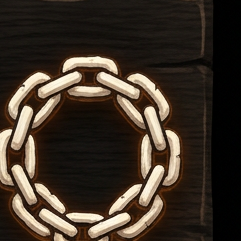
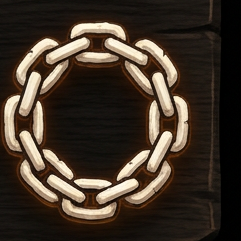
feat: economy line chart, de-server reliquary, UI fixes
- Economy panel now charts total resources held over time (SVG line +
  area, sampled every 2s in the sim, last ~3min) with the current total.
- Reliquary Yard reworked away from the server look: dark timber + bone
  uprights, an ossuary backboard with hung bone relics and a faint ember
  soul-lantern; just one subtle dark panel nods to the machine.
- Re-sliced the off-center economy rail glyph to center on the chain.
- Thickened the top ledger branch-bar (20->30px, full opacity).
- Removed all player-facing 'bound, never born' / 'never breed' phrasing.

diff --git a/game/index.html b/game/index.html
@@ -46,9 +46,9 @@
   #inspect .hd h3{font-size:18px;letter-spacing:1px}
   .twig,.modal{position:relative}
   #ledger{position:fixed}
-  #ledger::after{content:"";position:absolute;left:0;right:0;bottom:-14px;height:20px;
-    background:url('assets/ui/stick-bar.png') no-repeat center/100% 100%;opacity:.92;pointer-events:none;
-    filter:drop-shadow(0 2px 3px #000a)}
+  #ledger::after{content:"";position:absolute;left:0;right:0;bottom:-20px;height:30px;
+    background:url('assets/ui/stick-bar.png') no-repeat center/100% 100%;opacity:1;pointer-events:none;
+    filter:drop-shadow(0 2px 4px #000c)}
   #boot .wordmark{font-family:'Pirata One','Iowan Old Style',serif;font-weight:normal;
     font-size:clamp(36px,7vw,62px);letter-spacing:4px;line-height:1.05;margin:8px 0 2px;
     color:#c4b89e;opacity:.9;text-shadow:0 1px 1px #000a;text-transform:none}
@@ -1031,8 +1031,19 @@ function showSupplyChain(){ SND.resume();
     <p style="color:var(--ink-dim);font-size:12px;margin:2px 0 8px">Build and staff these in order. Each dot reads <span style="color:#9e3b2c">red</span> (not built), <span style="color:#c08a3a">amber</span> (built, needs husks), or <span style="color:#6f9a55">green</span> (running). Tap a step to jump to it.</p>
     <div class="chain">${CHAIN_STEPS.map(step).join('')}</div>
     <div style="margin-top:10px;padding:9px 11px;border:1px dashed var(--line);border-radius:6px;font-size:11.5px;color:var(--ink-dim);line-height:1.6">
-      ${ricon('compute',15)} <b style="color:var(--ink-bright)">Compute</b> is the quota the engine demands each tithe. &nbsp;${ricon('dead',15)}+${ricon('compute',15)} also bind new husks at the Binding Pyre — bound, never born.</div>
+      ${ricon('compute',15)} <b style="color:var(--ink-bright)">Compute</b> is the quota the engine demands each tithe. &nbsp;${ricon('dead',15)}+${ricon('compute',15)} also bind new husks at the Binding Pyre.</div>
     <p style="margin-top:10px"><span class="btn" onclick="hideOverlay()">Close</span> <span class="btn" onclick="showEconomy()">Live rates &amp; deficits</span></p>`); }
+// a little SVG line chart of total resources held over the last few minutes
+function resChartSVG(){ const h=G.resHist||[]; const W=520,H=86,pad=7;
+  if(h.length<2) return `<div style="color:var(--ink-dim);font-size:11px;padding:14px 6px;text-align:center">The line will chart here as the foundry runs…</div>`;
+  const mx=Math.max(1,...h);
+  const xy=h.map((v,i)=>{ const x=pad+(i/(h.length-1))*(W-2*pad); const y=H-pad-(v/mx)*(H-2*pad); return x.toFixed(1)+","+y.toFixed(1); });
+  const line=xy.join(' '), area=`${pad},${H-pad} ${line} ${(W-pad).toFixed(1)},${H-pad}`;
+  return `<svg viewBox="0 0 ${W} ${H}" width="100%" height="${H}" preserveAspectRatio="none" style="display:block">
+    <line x1="${pad}" y1="${H-pad}" x2="${W-pad}" y2="${H-pad}" stroke="#2b2d35" stroke-width="1"/>
+    <polygon points="${area}" fill="#e8a23a1e"/>
+    <polyline points="${line}" fill="none" stroke="#e8a23a" stroke-width="2" stroke-linejoin="round" stroke-linecap="round"/>
+  </svg>`; }
 function showEconomy(){ SND.resume();
   const rate={}; RES_ORDER.forEach(r=>rate[r]=0); let gatherWorkers=0;
   for(const b of buildings){
@@ -1053,7 +1064,14 @@ function showEconomy(){ SND.resume();
      <div style="flex:1;min-width:236px"><div style="font-size:10px;letter-spacing:1.5px;color:var(--ember-soft);text-transform:uppercase;margin-bottom:4px">The line</div>${Object.keys(kinds).length?Object.keys(kinds).map(bldRow).join(''):'<div style="color:var(--ink-dim);font-size:12px">No gather/refine buildings staffed yet.</div>'}</div>
     </div>
     <div style="color:var(--ink-dim);font-size:11px;margin-top:10px">Green is surplus, red is a deficit. A red line upstream starves everything below it — add gatherers or another refiner there.</div>
-    <p style="margin-top:8px"><span class="btn" onclick="hideOverlay()">Close</span></p>`); }
+    <div style="margin-top:12px">
+      <div style="display:flex;justify-content:space-between;align-items:baseline">
+        <div style="font-size:10px;letter-spacing:1.5px;color:var(--ember-soft);text-transform:uppercase">Total resources held</div>
+        <div style="font-size:13px;color:var(--ink-bright);font-variant-numeric:tabular-nums">${Math.round(RES_ORDER.reduce((a,r)=>a+(G.stock[r]||0),0))}</div>
+      </div>
+      <div style="border:1px solid var(--line);border-radius:6px;background:#0c0d11;padding:4px;margin-top:5px">${resChartSVG()}</div>
+    </div>
+    <p style="margin-top:10px"><span class="btn" onclick="hideOverlay()">Close</span> <span class="btn" onclick="showSupplyChain()">The Line (blueprint)</span></p>`); }
 function buildRail(){
   $('rail').innerHTML='';
   const mk=(gly,on,fn,tt)=>{ const b=document.createElement('div'); b.className='rbtn'+(on?' on':''); b.title=tt||''; b.onclick=fn;
@@ -1125,7 +1143,7 @@ function refreshInspect(){
     if(d.kind==="bind"){ const pop=villagers.filter(v=>!v.dead).length;
       body+=`<div class="row"><span>Husks bound</span><b>${pop} / ${G.popCap||6}</b></div>
       <div style="margin:7px 0"><span class="btn" onclick="bindHusk()">Bind a husk &middot; 1 corpse + 2 Compute</span></div>
-      <div style="color:var(--ink-dim);font-size:11px">Husks are bound here from the dead. They decay without soul-ash upkeep, and never breed on their own.</div>`; }
+      <div style="color:var(--ink-dim);font-size:11px">Husks are bound here from the dead. They decay without soul-ash upkeep.</div>`; }
     if(d.kind==="market") body+=`<div style="margin-top:6px"><span class="btn" onclick="showShop()">Open the market</span></div><div style="color:var(--ink-dim);font-size:11px;margin-top:4px">Buy and sell goods for Bones.</div>`;
     body+=`<div style="margin-top:10px"><span class="btn bad" onclick="demolishSel()">Demolish (reclaims half)</span></div>`;
     ins.innerHTML=`<div class="hd"><h3>${d.name}</h3><span class="x" onclick="clearInspect()">✕</span></div><div class="bd">${body}</div>`;
@@ -1169,7 +1187,7 @@ function showHelp(){ showOverlayHTML(`<h1 style="font-size:24px">THE SOUL FOUNDR
   <p><b>How to play:</b><br>
   • <b>Exhume the dead</b> — raise a Grave-Exhumer on a cemetery (or a Waste-Dredge on the wastes) and staff it.<br>
   • <b>Render &amp; refine</b> — Crematory → Furnace → Mill → Etch-Litho → Assembly Ossuary → Datacenter renders the dead into Compute; Substations make the Power the datacenters need. Tap a building, press <b>+ assign</b> to staff it.<br>
-  • <b>Bind husks</b> at the Binding Pyre (1 corpse + 2 Compute) — bound, never born. Soul-ash keeps them from crumbling.<br>
+  • <b>Bind husks</b> at the Binding Pyre (1 corpse + 2 Compute) to grow your workforce. Soul-ash keeps them from crumbling.<br>
   • Deliver the <b>Quota</b> of Compute each tithe; let the dead pile up unrendered and <b>Dread</b> (the backlog) overruns you. Raise <b>Ward Obelisks</b> to hold it back.<br>
   • Survive <b>${WIN_LEVEL} tithes</b> to break the engine's hold.</p>
   <p style="margin-top:6px"><b>Choose your tempo</b> <span style="color:var(--ink-dim);font-size:12px">— sets your grace period and how often a tithe falls. Current: <b style="color:var(--ember-soft)">${cap1(G.tempo||'standard')}</b></span><br>
@@ -1221,7 +1239,7 @@ function staffed(k){ return buildings.some(b=>b.kind===k && b.workers.length>0);
 function bldTarget(k){ return ()=> document.querySelector('[data-bld="'+k+'"]') ? '[data-bld="'+k+'"]' : '[data-tab="'+bldTab(k)+'"]'; }
 const TUT=[
   {t:"The dead are your raw matter. Open the GATHERING tab below.",
-   why:"Tabs group the buildings. You can also bind husks at the Binding Pyre (centre): 1 corpse + 2 Compute — they never breed on their own.", d:()=>curTab==="gather", sel:()=>'[data-tab="gather"]'},
+   why:"Tabs group the buildings. You can also bind husks at the Binding Pyre (centre) for 1 corpse + 2 Compute.", d:()=>curTab==="gather", sel:()=>'[data-tab="gather"]'},
   {t:"Raise a Grave-Exhumer on a cemetery (the headstones the glow marks) and staff it — tap it, press + assign.",
    why:"The Exhumer digs up corpses and hauls them to the stockpile. Nothing in the foundry runs without the dead.", d:()=>staffed("exhumer"), sel:bldTarget('exhumer'), at:()=>{const n=nearestNode('grave',Cam.target.x,Cam.target.z);return n?{x:n.x,z:n.z}:null;}},
   {t:"Raise a Crematory and staff it.",
@@ -1705,27 +1723,32 @@ function pileGeo(res){ switch(res){
   default:        return {g:new THREE.IcosahedronGeometry(0.4,0), h:0.8};       // reliquary cores
 }}
 function makeStockpile(def){
-  // the Reliquary Yard: a server-reliquary — dark metal racks + a glowing teal core, lashed to bone uprights.
+  // the Reliquary Yard: a haunted foundry yard — dark timber + bone uprights, an ossuary backboard
+  // with hung relics and a faint ember soul-lantern. (Just one subtle dark panel nods to the machine.)
   const g=new THREE.Group();
-  const metal=MAT(0x23262c,{metalness:0.55,roughness:0.5}), dark=MAT(0x15171b,{metalness:0.4,roughness:0.6});
-  const bone=MAT(0xb3a98f); const teal=emis(0x4fb0c0);
+  const timber=MAT(0x2b251c), dark=MAT(0x1b1712), plank=MAT(0x352d22);
+  const bone=MAT(0xb3a98f); const ember=emis(0xc9772a);
   const W=3.8, D=2.2;
-  const plat=new THREE.Mesh(new THREE.BoxGeometry(W,0.2,D),dark); plat.position.y=0.1; g.add(plat);
-  const trim=new THREE.Mesh(new THREE.BoxGeometry(W+0.06,0.04,D+0.06),teal); trim.material.emissiveIntensity=0.5; trim.position.y=0.05; g.add(trim);  // glowing base seam
+  const plat=new THREE.Mesh(new THREE.BoxGeometry(W,0.2,D),timber); plat.position.y=0.1; g.add(plat);
   // bone corner uprights, each capped with a tiny skull
   for(const sx of [-1,1]) for(const sz of [-1,1]){ const post=new THREE.Mesh(new THREE.CylinderGeometry(0.08,0.1,1.55,6),bone);
     post.position.set(sx*(W/2-0.14),0.88,sz*(D/2-0.14)); g.add(post);
     const sk=new THREE.Mesh(new THREE.IcosahedronGeometry(0.12,0),bone); sk.position.set(sx*(W/2-0.14),1.7,sz*(D/2-0.14)); g.add(sk); }
-  // a server-blade rack across the back, with glowing teal slot-lines
-  const rack=new THREE.Mesh(new THREE.BoxGeometry(W*0.92,1.2,0.34),metal); rack.position.set(0,0.94,-(D/2-0.28)); g.add(rack);
-  for(let i=0;i<6;i++){ const blade=new THREE.Mesh(new THREE.BoxGeometry(W*0.86,0.045,0.02),teal); blade.material.emissiveIntensity=0.6; blade.position.set(0,0.5+i*0.16,-(D/2-0.45)); g.add(blade); }
-  // a central reliquary core: a glowing teal pillar in a bone cage
-  const core=new THREE.Mesh(new THREE.CylinderGeometry(0.12,0.12,0.8,6),teal); core.material.emissiveIntensity=0.85; core.position.set(0,1.0,-(D/2-0.3)); g.add(core);
-  g.userData.coreGlow=core;
+  // an ossuary backboard of dark planks, with hung bone relics
+  const back=new THREE.Mesh(new THREE.BoxGeometry(W*0.92,1.15,0.16),plank); back.position.set(0,0.92,-(D/2-0.18)); g.add(back);
+  for(let i=0;i<3;i++){ const rx=-(W*0.3)+i*(W*0.3); const rib=new THREE.Mesh(new THREE.TorusGeometry(0.16,0.03,5,10,3.4),bone); rib.position.set(rx,0.95,-(D/2-0.26)); rib.rotation.z=0.2; g.add(rib);
+    const hang=new THREE.Mesh(new THREE.CylinderGeometry(0.012,0.012,0.34,4),bone); hang.position.set(rx,1.28,-(D/2-0.26)); g.add(hang); }
+  // one subtle dark machine panel with a single faint ember line (the only nod to the foundry/compute)
+  const panel=new THREE.Mesh(new THREE.BoxGeometry(0.6,0.5,0.06),dark); panel.position.set(W*0.3,0.78,-(D/2-0.27)); g.add(panel);
+  const seam=new THREE.Mesh(new THREE.BoxGeometry(0.5,0.03,0.02),ember); seam.material.emissiveIntensity=0.5; seam.position.set(W*0.3,0.78,-(D/2-0.31)); g.add(seam);
+  // a reliquary soul-lantern: a bone urn with a faint ember glow inside
+  const urn=new THREE.Mesh(new THREE.CylinderGeometry(0.16,0.2,0.42,7),bone); urn.position.set(-W*0.3,0.74,-(D/2-0.28)); g.add(urn);
+  const soul=new THREE.Mesh(new THREE.IcosahedronGeometry(0.1,0),ember); soul.material.emissiveIntensity=0.7; soul.position.set(-W*0.3,0.82,-(D/2-0.28)); g.add(soul);
+  g.userData.glow=soul;
   const piles=[]; const cols=4, cellX=W/cols, cellZ=D/2, top=0.22;
   PILE_RES.forEach((res,i)=>{ const cx=-(W/2)+cellX*((i%cols)+0.5), cz=-(D/2)+cellZ*(((i/cols)|0)+0.5)+0.18;
     const bin=new THREE.Mesh(new THREE.BoxGeometry(cellX*0.82,0.13,cellZ*0.74),dark); bin.position.set(cx,top,cz); g.add(bin);
-    const rim=new THREE.Mesh(new THREE.BoxGeometry(cellX*0.84,0.02,cellZ*0.76),teal); rim.material.emissiveIntensity=0.35; rim.position.set(cx,top+0.07,cz); g.add(rim);
+    const rim=new THREE.Mesh(new THREE.BoxGeometry(cellX*0.84,0.04,cellZ*0.76),bone); rim.position.set(cx,top+0.06,cz); g.add(rim);
     const pg=pileGeo(res); try{ pg.g.translate(0,pg.h/2,0); }catch(e){}   // anchor at base so it grows upward
     const opt=(res==="ichor")?{metalness:0.3,roughness:0.35}:null;
     const pile=new THREE.Mesh(pg.g, MAT(RES[res].col,opt)); pile.position.set(cx,top+0.08,cz); pile.scale.y=0.02; pile.visible=false;
@@ -2002,6 +2025,11 @@ function stepEconomy(dt){
   if(villagers.filter(v=>!v.dead).length===0 && G.time>20) endGame(false,"extinct");
   if(G.dread>=100){ G.breach=(G.breach||0)+dt; if(G.breach>=15) endGame(false,"breach"); } else G.breach=0;
   G.time=(G.time||0)+dt;
+  // sample total resources held over time for the economy line chart
+  G.histT=(G.histT==null?0:G.histT)-dt;
+  if(G.histT<=0){ G.histT=2.0; if(!G.resHist)G.resHist=[];
+    let tot=0; for(const r of RES_ORDER) tot+=(G.stock[r]||0);
+    G.resHist.push(tot); if(G.resHist.length>90)G.resHist.shift(); }
 }
 function crumble(v){ v.dead=true; SND.sfx('crumble'); scene.remove(v.obj); if(v.assigned){ const a=v.assigned.workers,k=a.indexOf(v); if(k>=0)a.splice(k,1);}
   const idx=villagers.indexOf(v); if(idx>=0)villagers.splice(idx,1); if(selected===v)clearInspect();